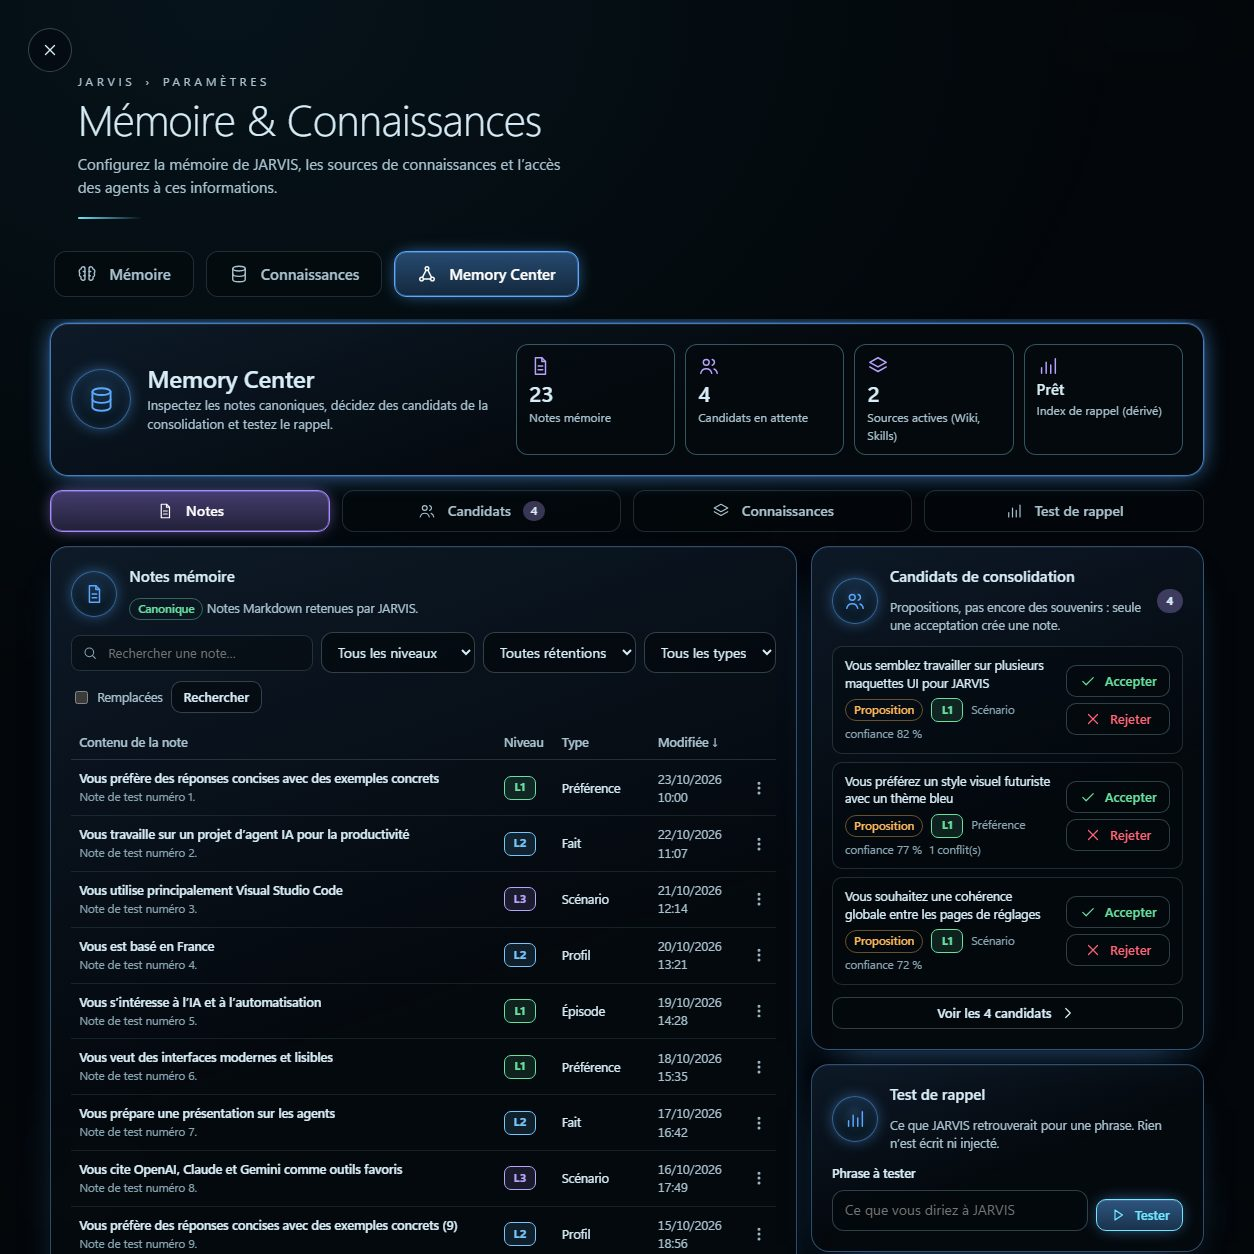
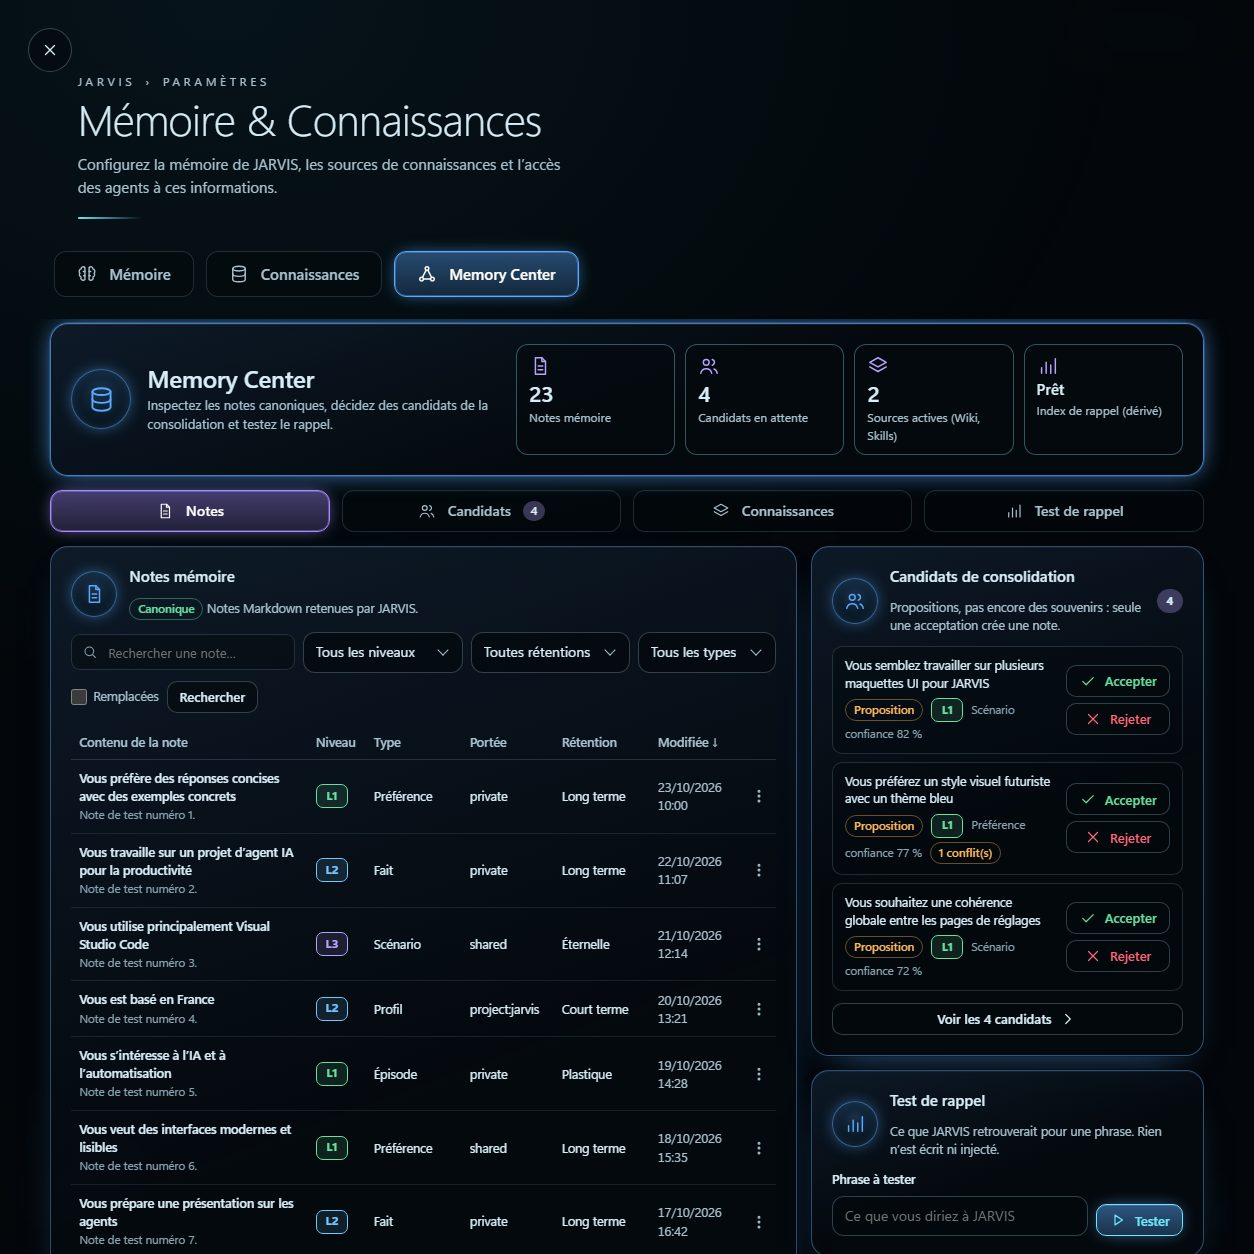
S7: reprise QA - écarts déclarés, captures Mémoire et Memory Center, docs et LOG

diff --git a/docs/settings/visual-foundation.md b/docs/settings/visual-foundation.md
@@ -58,7 +58,7 @@ l'appelant.
 | Médaillon d'icône | `.set-medallion` (+ `-sm`, `-lg`) | `medallion({icon,tone,size})` | `aria-hidden` |
 | Tuile de statistique | `.set-stat` (+ `-stack`), `.set-stat-icon/-value/-label` | `stat({value,label,icon,tone,stack})` | libellé obligatoire |
 | Ligne libellé + contrôle | `.set-rows` > `.set-row` (+ `-plain`, `-wide`), `.set-row-icon/-text/-label/-hint/-control` | `row({id,label,hint,icon,tone,control,plain,wide})` | `<id>-label` et `<id>-hint` à référencer par le contrôle |
-| Pastille d'état | `.set-dot` (+ `-ok`, `-warn`, `-bad`, `-info`, `-off`) ; badges `.set-badge*` du shell, `+ .set-badge-accent` | `dot(kind,text)`, `badge(kind,text)` | toujours un mot |
+| Pastille d'état | `.set-dot` (+ `-ok`, `-warn`, `-bad`, `-info`, `-off`) ; badges `.set-badge*` du shell, `+ .set-badge-accent` | `dot(kind,text,{className})`, `badge(kind,text)` | toujours un mot (texte vide : erreur ; un état absent s'affiche « — » chez l'appelant) ; `className` : accroche ajoutée devant `set-dot` |
 | Bouton néon | `.set-btn` (+ `-primary`, `-ghost`, `-danger`, `-sm`, `-icon`) | `button({id,label,variant,size,icon,iconOnly,tone,disabled,busy,data,describedBy})` | survol, pressé, focus, `disabled`, `aria-busy=true` (anneau tournant, figé sous mouvement réduit) |
 | Liste déroulante | `.set-select` > `select` | `select({id,options,value,label,labelledBy,describedBy,disabled})` | native, chevron dessiné |
 | Saisie | `.set-input` | — | `aria-invalid=true` : bord rouge |
@@ -128,7 +128,12 @@ Chacune ne touche qu'aux éléments donnés et rend sa fonction de détachement 
   `-quiet` pour la bande Avancé), médaillons, interrupteurs (`JarvisSettingsUI.toggle`), curseurs `.set-range`, cartes
   de mode `.set-choice` (seul écart voulu : le témoin radio reste visible au coin, pour l'état désactivé lisible),
   pastilles `.set-dot`, badges `.set-badge`, boutons `.set-btn`, onglets internes `.set-tabs-fill`, champs
-  `.set-input`. Les classes `.mem-*` / `.mc-*` restantes sont la composition et des accroches de tests.
+  `.set-input`. Les classes `.mem-*` / `.mc-*` restantes sont la composition et des accroches de tests. Reprise QA :
+  les filtres du Memory Center sont des `.set-select` (chevron), le compteur de conflits d'un candidat un
+  `.set-badge-warn` ; la case « Remplacées » reste une case native (aucune primitive de case : l'interrupteur est un
+  `button[role=switch]`, hors du formulaire de filtres) ; jetons morts `--mc-glass`, `--mem-glass`, `--mem-r` retirés ;
+  colonnes Portée et Rétention du tableau des notes masquées sous 640 px de conteneur (et non 720), pour qu'elles se
+  voient à 1254 px comme sur la maquette.
 - Reste hors fondation, volontairement : `.mcpp-switch` (Plugins & MCP). Cette vue garde le style compact de la console
   MCP (hors maquettes) et son contrat de feuille est épinglé par `test_control_center_mcp_plugins_js.py` ; la migrer
   serait une refonte de Plugins & MCP, pas une convergence.

diff --git a/docs/settings/settings-shell.md b/docs/settings/settings-shell.md
@@ -96,7 +96,9 @@ emplacement, même brouillon ; seule la présentation change.
 - Inchangés : liens profonds et alias (`memory`, `semantic_retrieval`, `consolidation`, `main_agent`,
   `subagent_models`…), `openSettingsTab` / `openSettingsLink`, raccourcis `ui_settings` / `ui_close`, état d'onglet
   (`SET.lastItem`), Échap (menu → fenêtre → page), clavier des onglets (activation manuelle).
-- Focus à l'ouverture : l'onglet de page ouvert (il n'y a pas de catégorie active à focaliser).
+- Focus à l'ouverture : l'onglet de page ouvert (il n'y a pas de catégorie active à focaliser) ; de même quand on
+  arrive du rail d'une autre catégorie (§ 3). L'avis de catégorie (`notice` du registre) se pose dans
+  `.set-page-intro` comme dans `.set-intro`.
 - Fenêtre d'un cerveau (Architecture) : sa zone d'ouverture (`architecturePanelZone`) commence sous les onglets de la
   page et sous le × ; elle ne couvre jamais le fil d'Ariane, le titre ni l'onglet actif.
 - Défilement : l'en-tête et les onglets restent en place, seul le contenu défile. Une page entière qui défilait a été
@@ -136,7 +138,11 @@ session. Il n'y a plus d'onglet hérité (`SET.tab` et `TABS` retirés à la Sli
 - Les deux listes (`#settingsCategories`, `#modalTabs`) sont des onglets ARIA à **activation manuelle** :
   flèches (les deux axes), Début, Fin déplacent le focus sans rien charger ; Entrée, Espace ou un clic ouvre.
   Une catégorie charge des données : la parcourir au clavier ne doit pas déclencher six chargements.
-- Après chaque rendu de la navigation, le focus revient sur l'entrée active de la liste qui l'avait. Changer de
+- Après chaque rendu de la navigation, le focus revient sur l'entrée active de la liste qui l'avait. Exception : le
+  rail choisit une catégorie en page pleine (§ 1 bis), qui masque le rail ; le focus va alors à l'onglet de page actif
+  (à défaut le premier, puis « Paramètres » du fil d'Ariane), jamais sur `body` (reprise QA de la Slice 07). La
+  consigne clavier du dialogue (`#settingsHelp`, son `aria-describedby`) suit la disposition : flèches haut et bas
+  dans les catégories à rail, gauche et droite dans les onglets d'une page pleine. Changer de
   section ou de catégorie alors que le focus est dans le contenu (un bouton de la section, puis Ctrl+→) le porte à
   l'entrée ouverte, arrivée marquée (`landFocus`, contour visible) : le contenu est remplacé, il ne tombe jamais sur
   `body` (passe de finitions avant la Slice 10).

diff --git a/tasks/refonte-ui-settings/LOG.md b/tasks/refonte-ui-settings/LOG.md
@@ -326,6 +326,28 @@ Suite finale (venv du dépôt principal, depuis `rui`) :
   `slices/07-settings-visual-integration-qa/evidence/reel/`.
 - Captures finales et paquet Human : `slices/07-settings-visual-integration-qa/evidence/`, `HUMAN-VALIDATION.md`.
 
+## Slice 07 — reprise QA (2026-10-25, worktree `rui`)
+
+Trois rapports QA de S07 ; un bloquant, huit finitions, trois écarts à déclarer.
+- **Bloquant corrigé** : rail → catégorie en page pleine, le focus tombait sur `body` (le rail masqué recevait le
+  focus). `renderTabs` vise l'onglet de page actif (garde : premier onglet, puis « Paramètres »). Test ajouté dans
+  `test_settings_page_layout_browser.py`.
+- **Finitions faites** : conflits d'un candidat en `.set-badge-warn` (et `.mc-why.mc-warn` recoloré) ; `pill()` Mémoire
+  « — » sur texte vide, option `className` ajoutée à `JarvisSettingsUI.dot` (plus de `.replace` de chaîne) + tests node ;
+  avis de catégorie posé dans `.set-page-intro, .set-intro` avec garde ; `#settingsHelp` suit la disposition ;
+  `textSaving` compteur ; jetons morts `--mc-glass`, `--mem-glass`, `--mem-r` retirés (grep : aucun consommateur) ;
+  colonnes Portée/Rétention visibles dès 640 px de conteneur ; filtres du Memory Center en `.set-select`.
+- **Laissés, dit** : case « Remplacées » native (pas de primitive de case ; l'interrupteur est un bouton hors
+  formulaire) ; pas de test de chevauchement de deux envois du texte (minutage non déterministe avec le faux envoi lent).
+- **Déclarés** (`HUMAN-VALIDATION.md` § 3, liés à la décision n° 2) : Mémoire à 1254, fenêtre du cerveau sur les cartes,
+  Sous-agents en 2×2.
+- Captures Memory Center et Mémoire régénérées (`evidence/`), docs `settings-shell.md` § 1 bis et § 3,
+  `visual-foundation.md` § 3 et § 7.
+- Tests (venv du dépôt principal, depuis `rui`, lots séparés) : rapides JS (6 fichiers) 121 + 2 nouveaux verts ;
+  `test_settings_page_layout_browser` 3 ; `test_memory_settings_browser` + `test_personalization_page_browser` 24 ;
+  `test_settings_shell_browser` 9 ; `test_settings_accessibility_browser` 16 + 1 rouge sous charge
+  (`test_changing_category_from_the_content…`, harnais sorti en code 1) vert seul ; `test_architecture_workspace_browser` 5.
+
 ## LOG Drive d'origine
 # Execution log
 

diff --git a/tasks/refonte-ui-settings/slices/07-settings-visual-integration-qa/HUMAN-VALIDATION.md b/tasks/refonte-ui-settings/slices/07-settings-visual-integration-qa/HUMAN-VALIDATION.md
@@ -55,6 +55,9 @@ Rien n'est affiché qui ne soit réellement appliqué ou mesuré ; ces élément
 | Mémoire | pas de profil de rappel Rapide/Équilibré/Approfondi ; curseur à 10 et non 20 ; ligne « Portées » remplacée par « Mémoire privée » | aucun réglage derrière un profil (preset décoratif interdit) ; borne servie ; donnée réelle (`docs/settings/memory.md`) |
 | Memory Center | pas de « taux de rappel », de rétention en %, de cases de sélection multiple | aucune mesure ni action groupée côté Core |
 | Memory Center | test de rappel limité à 10 souvenirs ; libellés des niveaux, rétentions et types écrits dans le navigateur | servir ces bornes et libellés demande un changement de contrat serveur (laissé hors de cette Slice) |
+| Mémoire (1254×1254) | colonnes déséquilibrées (la colonne de droite, qui porte en plus le résumé et l’appel au Memory Center, descend plus bas que la gauche) ; l'appel au Memory Center et la bande Avancé passent sous le pli | coût de l'en-tête fixe (décision n° 2 du § 4) : environ 300 px pris par le fil d'Ariane, le titre et les onglets ; les cartes gardent leur contenu réel plutôt qu'un résumé tronqué |
+| Architecture (fenêtre du cerveau) | la fenêtre flottante chevauche le bas des cartes et le centre du canevas | règle de placement de la Slice 04 : elle s'ouvre du côté de son nœud qui a le plus de place, sous les onglets et le × (`architecturePanelZone`) ; elle ne couvre jamais le titre ni l'onglet actif. Lié à la décision n° 2 (l'en-tête fixe réduit la hauteur disponible) |
+| Sous-agents (1254×1254) | synthèse en 2×2 au lieu d'une ligne de 4 ; la matrice de routage et les règles globales passent sous le pli | largeur utile après marges et en-tête fixe (décision n° 2) ; les tuiles restent lisibles plutôt que tassées sur une ligne |
 | Plugins & MCP | interrupteur `.mcpp-switch` hors fondation | vue hors maquettes, contrat de feuille épinglé par ses tests ; sa migration serait une refonte de Plugins & MCP |
 
 ## 4. Décisions à faire valider par le Human
